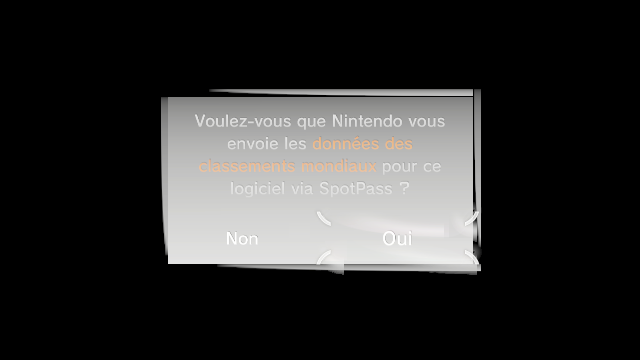
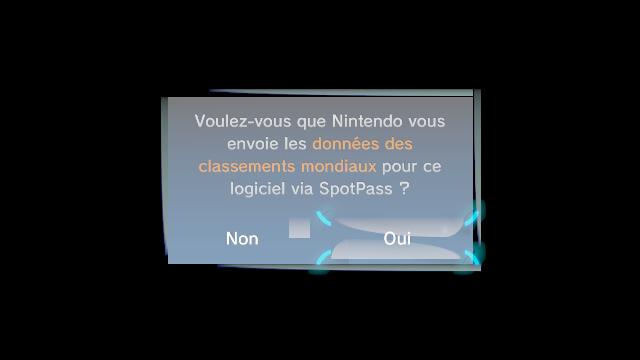
feat(wiiu): shader lyt - interpolation noir/blanc et cadres étirés
- Pixels : couleur × (uInterpolateOffset + texture × uInterpolateWidth),
  l'interpolation noir/blanc des matériaux nw::lyt : fenêtre bleu-gris et
  curseur cyan au lieu d'aplats gris.
- Cadres : coordonnée de texture bornée à 0,99 pour étirer le bord au-delà de
  la texture du coin.
- make_lyt_gsh.py --psh=<fichier> pour un shader de pixels de diagnostic.

Changed region(s): [[0.25, 0.2444, 0.7812, 0.7639]]

diff --git a/decompile/recomp/shaders/lyt/make_lyt_gsh.py b/decompile/recomp/shaders/lyt/make_lyt_gsh.py
@@ -64,8 +64,10 @@ def main():
     assembler, out = str(Path(sys.argv[1]).resolve()), Path(sys.argv[2])
     debug = "--debug-colors" in sys.argv  # chaque programme peint une couleur unique
     with tempfile.TemporaryDirectory() as tmp:
-        header, program, end = assemble(assembler, tmp, HERE / "lyt.psh")
-        frame = assemble(assembler, tmp, HERE / "lyt.psh", HERE / "lyt_frame.vsh")[1]
+        # --psh=<fichier> : shader de pixels de diagnostic pour tous les programmes.
+        psh = next((Path(a[6:]) for a in sys.argv if a.startswith("--psh=")), HERE / "lyt.psh")
+        header, program, end = assemble(assembler, tmp, psh)
+        frame = assemble(assembler, tmp, psh, HERE / "lyt_frame.vsh")[1]
         programs = [frame if i in FRAME_PROGRAMS else program for i in range(PROGRAM_COUNT)]
         if debug:
             programs = []

diff --git a/decompile/recomp/shaders/lyt/README.md b/decompile/recomp/shaders/lyt/README.md
@@ -25,9 +25,15 @@ Ce qu'on sait (établi avec `--probe` et `--debug-colors`) :
 - programmes vus à l'écran : 3 = morceaux de cadre (`lyt_frame.vsh`), 12 = fond plein écran,
   14/15 = contenu de fenêtre et boutons. Les autres reçoivent le shader générique.
 
-Limites : un seul shader de pixels (couleur × texture 0) ; `uTextureMode`, les textures 1–2,
-les matrices indirectes et l'interpolation (`uInterpolateWidth/Offset`) sont ignorés. Le rendu
-est donc approché (teintes, mélanges de textures).
+Shader de pixels : couleur = couleur du sommet × (`uInterpolateOffset` + texture 0 ×
+`uInterpolateWidth`) - l'interpolation noir/blanc des matériaux (Offset = « noir »,
+Width = « blanc » − « noir ») ; c'est elle qui donne leur teinte aux fenêtres et au curseur cyan.
+Les cadres bornent la coordonnée à 0,99 : au-delà de la texture du coin, le bord est étiré.
+
+Limites : `uTextureMode` (entier, un octet par étage de texture semble-t-il : valeurs vues
+0x8E82, 0x8E02, 0x8E, 0x8E83, 0x2, 0xE), les textures 1–2 et les matrices indirectes sont
+ignorés ; un petit carré gris parasite reste près des boutons. `--psh=<fichier>` permet de
+remplacer le shader de pixels de tous les programmes par un shader de diagnostic.
 
 `make_lyt_gsh.py --debug-colors` remplace chaque shader de pixels par une couleur unique
 (R = bits 0–1 du numéro, V = bits 2–3, B = bit 4) pour voir quel programme dessine quoi.
